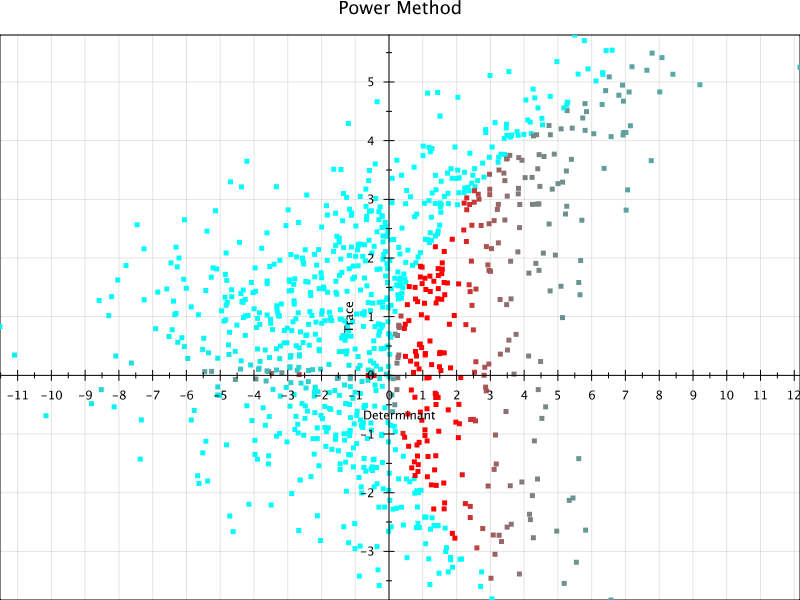
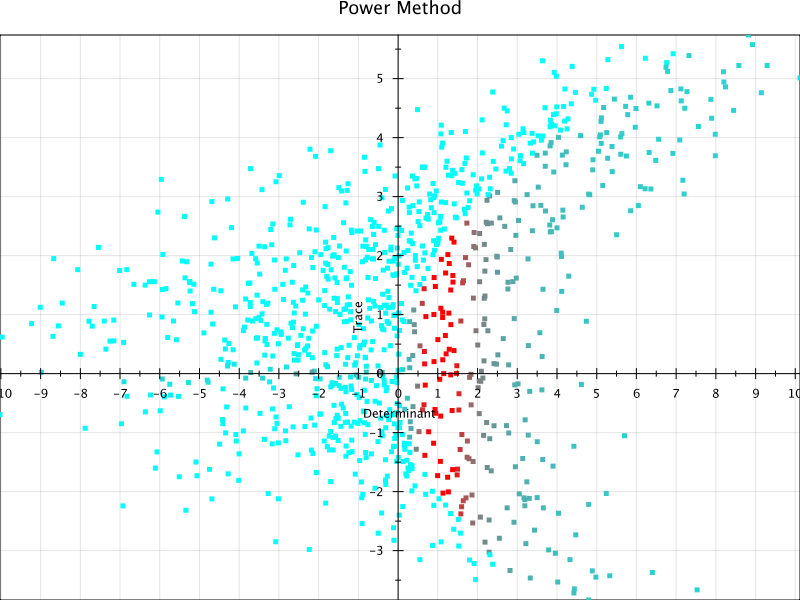
Add the correct data to the datagroup when painting the methods. Increase the amount of iterations.

diff --git a/src/powermethod/PowerMethodMain.java b/src/powermethod/PowerMethodMain.java
@@ -18,7 +18,7 @@ import de.erichseifert.gral.plots.axes.AxisRenderer;
 import de.erichseifert.gral.plots.points.PointRenderer;
 
 public class PowerMethodMain {
-	public static final int POWER_METHOD_MAX_ITERATIONS = 1000;
+	public static final int POWER_METHOD_MAX_ITERATIONS = 2000;
 	public static final int ACCURACY = 5;
 	
 	private static final int IMAGE_HEIGHT = 800;
@@ -75,7 +75,7 @@ public class PowerMethodMain {
 			double determinant = group.getMatrix().det();
 			double trace = group.getMatrix().trace();
 			
-			data.add(determinant, trace, group.getPowerMethodIterations());
+			data.add(determinant, trace, iterations);
 		}
 		
 		XYPlot plot = createPlot(data, minIterations, maxIterations, "Power Method");
@@ -115,7 +115,7 @@ public class PowerMethodMain {
 			double determinant = group.getMatrix().det();
 			double trace = group.getMatrix().trace();
 			
-			data.add(determinant, trace, group.getPowerMethodIterations());
+			data.add(determinant, trace, iterations);
 		}
 		
 		XYPlot plot = createPlot(data, minIterations, maxIterations, "Inverse Power Method");
